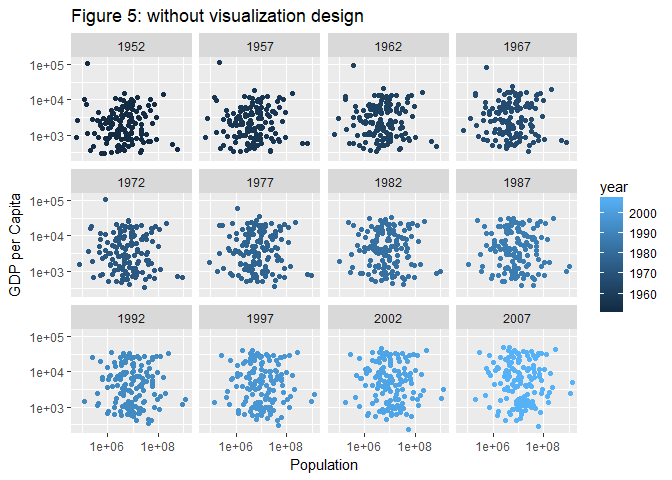
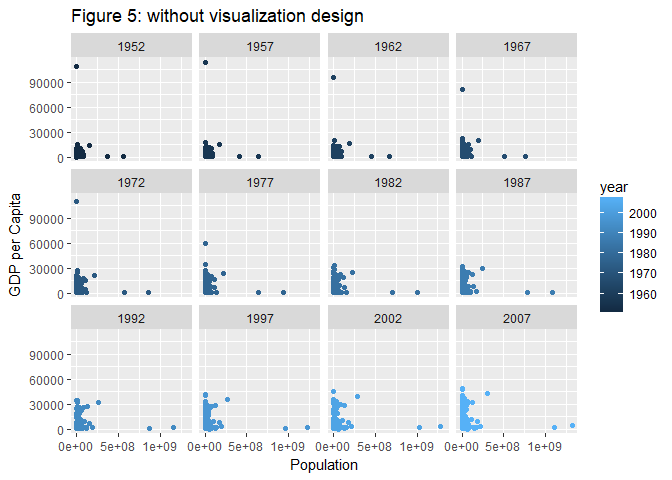
47th Commit from RStudio

diff --git a/hw05/hw05.md b/hw05/hw05.md
@@ -426,14 +426,12 @@ Remake at least one figure or create a new one, in light of something you learne
 
 Answer:
 
-I plotted `pop` vs `gdpPercap` in log scale. The colors are modified by using `scale_colour_distiller()`. If I don't use `scale_colour_distiller()`, the default colorbar is blue. After using `scale_colour_distiller()`, the color is green.
+I plotted `pop` vs `gdpPercap` in log scale. The colors are modified by using `scale_colour_distiller()`. If I don't use `scale_colour_distiller()`, the default colorbar is blue. After using `scale_colour_distiller()`, the color is green. Also, both x- and y-axis are optimized for visulization.
 
 ``` r
 (x5 <- gapminder %>%
         ggplot(aes(pop, gdpPercap)) +
         geom_point(aes(colour=year)) +
-        scale_x_log10() +
-        scale_y_log10() +
         facet_wrap(~year) +
         labs(x="Population", y="GDP per Capita", title="Figure 5: without visualization design"))
 ```
@@ -462,7 +460,6 @@ gapminder %>%
         geom_bar(aes(weight=pop, fill=continent),
                  position="dodge",
                  colour="black") +
-        scale_y_log10() +
         labs(x="Year", y="Population", title="Figure 7: without visualization design")
 ```
 
@@ -478,8 +475,6 @@ gapminder %>%
 
     ## Warning in FUN(X[[i]], ...): integer overflow - use sum(as.numeric(.))
 
-    ## Warning: Transformation introduced infinite values in continuous y-axis
-
 ![](hw05_files/figure-markdown_github-ascii_identifiers/unnamed-chunk-13-1.png)
 
 ``` r
@@ -489,14 +484,10 @@ gapminder %>%
         geom_bar(aes(weight=pop, fill=continent),
                  position="dodge",
                  colour="black") +
-        scale_y_log10() +
         scale_y_continuous("Population") +
         scale_fill_manual(values=brewer.pal(n=5, "RdYlGn")) +
         labs(x="Year", y="Population", title="Figure 8: with visualization design")
 ```
-
-    ## Scale for 'y' is already present. Adding another scale for 'y', which
-    ## will replace the existing scale.
 
     ## Warning in FUN(X[[i]], ...): integer overflow - use sum(as.numeric(.))
 
